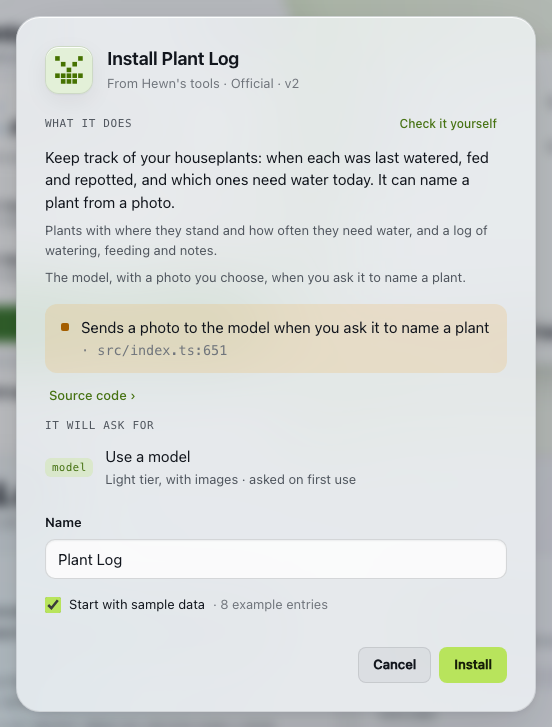
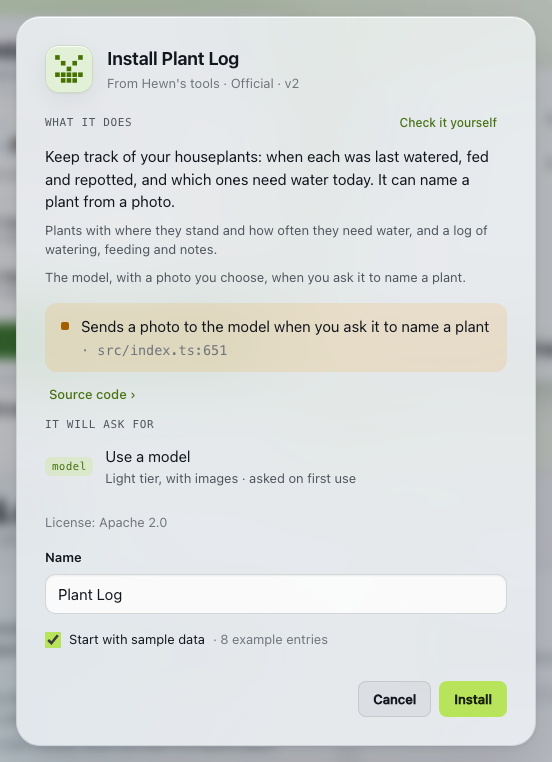
Review fixes: a tool's own LICENSE travels on, and the license row
- A LICENSE a tool came with is never dropped or replaced: under the
  same license it goes as it came; under another, the new text comes
  first and the original follows; all rights reserved adds nothing.
  The owner's name goes only on tools built on this Hewn.
- Hewn's own tools installed before their manifests said so start at
  Apache-2.0; a tool from elsewhere without one says so whatever is
  chosen.
- CC0 shows and writes its waiver; GPL-3.0-or-later carries its "or
  any later version" notice; a name is written as typed ($& and all).
- The name field follows typing in place and saves without a redraw,
  stacked under its label, and says it's for all your tools.
- The license pattern takes SPDX expressions with parentheses.
- spec/README.md at 2.7; package-lock's spec at 2.7.0; share.png and
  install.png retaken.
- Tests: ABI gate below 2.7, all rights reserved keeps the ABI, no new
  version or hash, the choice outlives a version, a manifest's other id
  with its own LICENSE, re-sharing someone else's work; the e2e checks
  the License row and the install sheet's line.

diff --git a/test/share-license.test.ts b/test/share-license.test.ts
@@ -6,10 +6,10 @@ import { tmpdir } from "node:os";
 import { join, resolve } from "node:path";
 import { after, afterEach, before, beforeEach, describe, test } from "node:test";
 import { USER } from "@hewntools/core/auth.ts";
-import { unpackBundle } from "@hewntools/core/bundle.ts";
-import { text } from "@hewntools/core/files.ts";
-import { LICENSE_CHOICES, licenseFile } from "@hewntools/core/licenses.ts";
-import { ABI_FEATURES } from "@hewntools/core/manifest.ts";
+import { packBundle, unpackBundle } from "@hewntools/core/bundle.ts";
+import { bytes, text } from "@hewntools/core/files.ts";
+import { KEPT_LICENSE, LICENSE_CHOICES, licenseFile } from "@hewntools/core/licenses.ts";
+import { ABI_FEATURES, validateManifest } from "@hewntools/core/manifest.ts";
 import { installFrom, SEED, setup } from "./helpers.ts";
 
 const SAMPLE = JSON.stringify([{ operation: "record_run", input: { distanceKm: 5.2, durationSeconds: 1700, date: "2026-10-01" } }]);
@@ -92,19 +92,92 @@ describe("a license on a shared tool", () => {
     assert.equal(t.platform.registry.getKv("share:license:running-log"), undefined);
   });
 
+  test("a choice is no new version: the active version and its hash stay, and the choice outlives a new version; all rights reserved keeps the tool's ABI", async () => {
+    const before = t.platform.registry.getCapability("running-log")!.activeVersion!;
+    const hash = t.platform.registry.getVersion("running-log", before)!.contentHash;
+    t.platform.setShareLicense(USER, "running-log", { license: "none" });
+    let bundle = (await t.platform.shareBundle(USER, "running-log")).bundle;
+    assert.equal(t.platform.registry.getCapability("running-log")!.activeVersion, before);
+    assert.equal(t.platform.registry.getVersion("running-log", before)!.contentHash, hash);
+    assert.equal(manifestOf(bundle).abi, "2.0", "no license, no ABI 2.7");
+    // A new version (its sample data again): the choice stays.
+    const b = await t.platform.settle((await t.platform.setSample(USER, "running-log", SAMPLE)).buildId);
+    assert.equal(b.status, "promoted", b.log.join("\n"));
+    assert.deepEqual(((x) => [x.id, x.why])((await t.platform.shareCheck(USER, "running-log")).license), ["none", "chosen"]);
+    bundle = (await t.platform.shareBundle(USER, "running-log")).bundle;
+    assert.equal(manifestOf(bundle).license, undefined);
+  });
+
+  test("someone else's work: the LICENSE it came with travels on, never replaced, and the owner's name never goes on it", async () => {
+    t.platform.setShareLicense(USER, "running-log", { license: "MIT" });
+    const mit = (await t.platform.shareBundle(USER, "running-log")).bundle;
+    const original = licenseOf(mit)!;
+    other = setup();
+    other.platform.setShareLicense(USER, (await (async () => {
+      const p = await other!.platform.stageBundle(USER, mit);
+      await other!.platform.settle((await other!.platform.installBundle(USER, p.token, { name: "Running Log", sample: true })).buildId);
+      return "running-log";
+    })()), { holder: "Ada Lovelace" });
+    const check = (await other.platform.shareCheck(USER, "running-log")).license;
+    assert.deepEqual([check.id, check.why, check.elsewhere, check.copyright], ["MIT", "manifest", true, `Copyright (c) ${year} the Running Log authors`], "not Ada's");
+    // Under the same license: as it came.
+    assert.equal(licenseOf((await other.platform.shareBundle(USER, "running-log")).bundle), original);
+    // Under another: the new one first, the original after it, as it was.
+    other.platform.setShareLicense(USER, "running-log", { license: "Apache-2.0" });
+    const apache = licenseOf((await other.platform.shareBundle(USER, "running-log")).bundle)!;
+    assert.match(apache, new RegExp(`^Copyright \\(c\\) ${year} the Running Log authors\n\n {33}Apache License\n`));
+    assert.ok(apache.endsWith(`${KEPT_LICENSE}\n\n${original}`));
+    assert.doesNotMatch(apache, /Ada/);
+    // All rights reserved writes nothing, and drops nothing: the notice it came with stays.
+    other.platform.setShareLicense(USER, "running-log", { license: "none" });
+    const none = (await other.platform.shareBundle(USER, "running-log")).bundle;
+    assert.equal(manifestOf(none).license, undefined);
+    assert.equal(licenseOf(none), original);
+  });
+
+  test("a manifest's other id is offered as it is, and its own LICENSE goes as it came", async () => {
+    t.platform.setShareLicense(USER, "running-log", { license: "MIT" });
+    const { files, sidecar } = unpackBundle((await t.platform.shareBundle(USER, "running-log")).bundle);
+    const m = JSON.parse(text(files["capability.json"]));
+    const theirs = "BSD 3-Clause License\n\nCopyright (c) 2025, Grace Hopper\n";
+    const bsd = packBundle({ ...files, "capability.json": bytes(JSON.stringify({ ...m, license: "BSD-3-Clause" }, null, 2)), LICENSE: bytes(theirs) }, sidecar);
+    other = setup();
+    const p = await other.platform.stageBundle(USER, bsd);
+    assert.equal(p.license, "BSD-3-Clause");
+    await other.platform.settle((await other.platform.installBundle(USER, p.token, { name: "Running Log", sample: true })).buildId);
+    const l = (await other.platform.shareCheck(USER, "running-log")).license;
+    assert.deepEqual([l.id, l.why], ["BSD-3-Clause", "manifest"]);
+    assert.ok(l.choices.some((c) => c.id === "BSD-3-Clause"));
+    const shared = (await other.platform.shareBundle(USER, "running-log")).bundle;
+    assert.equal(manifestOf(shared).license, "BSD-3-Clause");
+    assert.equal(licenseOf(shared), theirs);
+  });
+
+  test("one of Hewn's tools without a license in its manifest (installed before it said so) starts at Apache-2.0", async () => {
+    t.platform.setShareLicense(USER, "running-log", { license: "none" });
+    const bare = (await t.platform.shareBundle(USER, "running-log")).bundle;
+    other = setup();
+    const p = await other.platform.stageBundle(USER, bare, { from: "hub" });
+    await other.platform.settle((await other.platform.installBundle(USER, p.token, { name: "Running Log", sample: true })).buildId);
+    const l = (await other.platform.shareCheck(USER, "running-log")).license;
+    assert.deepEqual([l.id, l.why, l.elsewhere], ["Apache-2.0", "hewn", true]);
+  });
+
   test("a link serves the bundle under the license chosen for the tool", async () => {
     t.platform.setShareLicense(USER, "running-log", { license: "GPL-3.0-or-later" });
     const { token } = await t.platform.createShareLink(USER, "running-log", {});
     const { bundle } = await t.platform.sharedBundle(token);
     assert.equal(manifestOf(bundle).license, "GPL-3.0-or-later");
-    assert.match(licenseOf(bundle)!, /^Copyright \(c\) \d{4} the Running Log authors\n\n {20}GNU GENERAL PUBLIC LICENSE\n/);
+    assert.match(licenseOf(bundle)!, /^Copyright \(c\) \d{4} the Running Log authors\n\nThis program is free software: [^\n]*any later version\.\n\n {20}GNU GENERAL PUBLIC LICENSE\n/);
   });
 });
 
 describe("the license texts and the field", () => {
-  test("each of the four licenses has its text; CC0 its waiver; all rights reserved none", () => {
+  test("each of the four licenses has its text; CC0 its waiver; GPL its or-later notice; all rights reserved none", () => {
     const o = { year: 2026, toolName: "Plant Care" };
     assert.match(licenseFile("MIT", o)!, /Copyright \(c\) 2026 the Plant Care authors/);
+    assert.match(licenseFile("MIT", { ...o, holder: "A $& B" })!, /Copyright \(c\) 2026 A \$& B\n/, "a name is written as it is");
+    assert.match(licenseFile("GPL-3.0-or-later", o)!, /^Copyright \(c\) 2026 the Plant Care authors\n\nThis program is free software: .*either version 3 of the License, or \(at your option\) any later version\.\n\n {20}GNU GENERAL PUBLIC LICENSE/);
     assert.doesNotMatch(licenseFile("MIT", o)!, /\[year\]|\[fullname\]/);
     assert.match(licenseFile("CC0-1.0", o)!, /^To the extent possible under law, the Plant Care authors have waived all copyright and related or neighboring rights to Plant Care\.\n\nCreative Commons Legal Code/);
     assert.match(licenseFile("CC0-1.0", { ...o, holder: "Ada" })!, /^To the extent possible under law, Ada has waived/);
@@ -114,10 +187,14 @@ describe("the license texts and the field", () => {
     assert.equal(LICENSE_CHOICES.length, 5);
   });
 
-  test("a manifest's license needs ABI 2.7", () => {
+  test("a manifest's license needs ABI 2.7, and is an SPDX id or expression", () => {
     const f = ABI_FEATURES.find((x) => x.name === '"license"')!;
     assert.equal(f.since, "2.7");
     assert.ok(f.used({ license: "MIT" } as never));
+    const m = JSON.parse(readFileSync(join(resolve(import.meta.dirname, "fixtures/running-log"), "capability.json"), "utf8"));
+    assert.ok(validateManifest({ ...m, abi: "2.6", license: "MIT" }, m.id).some((e) => /"license".*2\.7/.test(e)), "refused below 2.7");
+    assert.deepEqual(validateManifest({ ...m, abi: "2.7", license: "(MIT AND BSD-2-Clause) OR GPL-3.0-or-later" }, m.id), []);
+    assert.ok(validateManifest({ ...m, abi: "2.7", license: "MIT; rm -rf" }, m.id).length > 0);
   });
 
   test("Hewn's own tools say Apache-2.0, as seeds/LICENSE does", () => {

diff --git a/packages/core/src/platform/sharing.ts b/packages/core/src/platform/sharing.ts
@@ -20,7 +20,7 @@ import { breather, Domain } from "./context.ts";
 import { type CodeFile, codeFiles, type CodeText, codeText } from "../code.ts";
 import { MODEL_KEYS } from "./models.ts";
 import { candidateFiles } from "./submissions.ts";
-import { copyrightLine, LICENSE_CHOICES, licenseFile, NO_LICENSE } from "../licenses.ts";
+import { KEPT_LICENSE, LICENSE_CHOICES, licenseFile, NO_LICENSE, noticeLine } from "../licenses.ts";
 
 /** A staged bundle (uploaded, not installed) is dropped after a day. */
 const STAGED_MS = 24 * 3600_000;
@@ -60,13 +60,20 @@ export interface ShareCheck {
 export interface ShareLicense {
   /** An SPDX id, or "none": all rights reserved (no `license`, no LICENSE file). */
   id: string;
-  why: "chosen" | "manifest" | "built-here" | "arrived-without";
+  why: "chosen" | "manifest" | "built-here" | "arrived-without" | "hewn";
   /** The five on the sheet, each with its line; a manifest's other id is offered as it is. */
   choices: { id: string; label: string; line: string }[];
-  /** The LICENSE file's copyright line, as it would be written. */
+  /** The LICENSE file's first line, as it would be written: the copyright line (CC0: its waiver). */
   copyright: string;
-  /** The name the owner gave for the copyright line, kept on this Hewn for every tool; null: "the <tool> authors". */
+  /** The name the owner gave for the copyright line, kept on this Hewn for all their tools; null: "the <tool> authors". */
   holder: string | null;
+  /**
+   * It came from elsewhere (a file, a link, Hewn's tools): someone else's work, so the owner's name never goes on it, and
+   * a LICENSE it came with travels on, never replaced.
+   */
+  elsewhere: boolean;
+  /** It came from elsewhere (not one of Hewn's tools) with no license: the row says so, whatever is chosen. */
+  arrivedWithout: boolean;
 }
 
 /** A card in Hewn's tools (Q2): enough to choose, and whether you have it. */
@@ -217,11 +224,15 @@ export class Sharing extends Domain {
     const m = this.registry.getVersion(capabilityId, version)!.manifest;
     const chosen = this.registry.getKv<string>(licenseKey(capabilityId));
     const own = m.license;
-    const id = chosen ?? own ?? (m.source ? NO_LICENSE : "MIT");
-    const why = chosen ? "chosen" : own ? "manifest" : m.source ? "arrived-without" : "built-here";
+    // Hewn's own tools are Apache-2.0 (seeds/LICENSE), also those installed before their manifests said so.
+    const hewn = m.source?.from === "hub";
+    const id = chosen ?? own ?? (hewn ? "Apache-2.0" : m.source ? NO_LICENSE : "MIT");
+    const why = chosen ? "chosen" : own ? "manifest" : hewn ? "hewn" : m.source ? "arrived-without" : "built-here";
     const holder = this.registry.getKv<string>(HOLDER_KEY) ?? null;
+    const elsewhere = !!m.source;
     const other = [own, chosen].find((x) => x && !LICENSE_CHOICES.some((c) => c.id === x));
-    return { id, why, choices: [...LICENSE_CHOICES, ...(other ? [{ id: other, label: other, line: "The license its manifest names." }] : [])], copyright: copyrightLine(new Date().getUTCFullYear(), m.name, holder ?? undefined), holder };
+    const copyright = noticeLine(id, { year: new Date().getUTCFullYear(), toolName: m.name, ...(holder && !elsewhere ? { holder } : {}) });
+    return { id, why, choices: [...LICENSE_CHOICES, ...(other ? [{ id: other, label: other, line: "The license its manifest names." }] : [])], copyright, holder, elsewhere, arrivedWithout: elsewhere && !hewn && !own };
   }
 
   /**
@@ -264,10 +275,11 @@ export class Sharing extends Domain {
     const { license: _, ...unlicensed } = JSON.parse(text(files["capability.json"])) as CapabilityManifest;
     const manifest: CapabilityManifest = license.id === NO_LICENSE ? unlicensed : { ...unlicensed, ...(abiBelow(abiOf(unlicensed), "2.7") ? { abi: "2.7" } : {}), license: license.id };
     files["capability.json"] = bytes(JSON.stringify(manifest, null, 2) + "\n");
-    const file = license.id === NO_LICENSE ? undefined : licenseFile(license.id, { year: new Date().getUTCFullYear(), toolName: manifest.name, holder: license.holder ?? undefined });
-    // A tool's own LICENSE stays only for a license Hewn has no text for.
-    if (license.id === NO_LICENSE) delete files.LICENSE;
-    else if (file) files.LICENSE = bytes(file);
+    // A LICENSE the version came with (from elsewhere) is someone's notice: it travels on, never dropped or replaced.
+    // Shared under the same license, it goes as it is; under another, the new one comes first and it follows, as it was.
+    const original = files.LICENSE ? text(files.LICENSE) : undefined;
+    const file = license.id === NO_LICENSE ? undefined : licenseFile(license.id, { year: new Date().getUTCFullYear(), toolName: manifest.name, ...(license.holder && !license.elsewhere ? { holder: license.holder } : {}) });
+    if (file && (!original || license.id !== row.manifest.license)) files.LICENSE = bytes(original ? `${file}\n\n${KEPT_LICENSE}\n\n${original}` : file);
     const sidecar: Sidecar = { format: BUNDLE_FORMAT, hewn: this.platform.version ?? "dev", abi: abiOf(manifest), exportedAt: new Date().toISOString(), tool: { id: capabilityId, version, hash: row.contentHash } };
     return { name: `${capabilityId}.hewn.zip`, bundle: packBundle(files, sidecar) };
   }

diff --git a/packages/core/src/licenses.ts b/packages/core/src/licenses.ts
@@ -14,23 +14,34 @@ export const LICENSE_CHOICES: { id: string; label: string; line: string }[] = [
   { id: NO_LICENSE, label: "All rights reserved", line: "No license: others may install it, but not change it or pass it on without asking you." },
 ];
 
-/** An SPDX id, or an expression of them (`MIT OR Apache-2.0`), as the manifest takes it. */
-export const LICENSE_ID = /^[A-Za-z0-9][A-Za-z0-9.+-]*( (AND|OR|WITH) [A-Za-z0-9][A-Za-z0-9.+-]*)*$/;
+/**
+ * The line a LICENSE file starts with: "Copyright (c) 2026 the Plant Care authors", or with the name the owner gave;
+ * for CC0, the waiver it asks for instead.
+ */
+export function noticeLine(id: string, o: { year: number; toolName: string; holder?: string }): string {
+  const who = o.holder?.trim() || `the ${o.toolName} authors`;
+  if (id === "CC0-1.0") return `To the extent possible under law, ${who} ${o.holder?.trim() ? "has" : "have"} waived all copyright and related or neighboring rights to ${o.toolName}.`;
+  return `Copyright (c) ${o.year} ${who}`;
+}
 
-/** "Copyright (c) 2026 the Plant Care authors", or with the name the owner gave. */
-export const copyrightLine = (year: number, toolName: string, holder?: string) => `Copyright (c) ${year} ${holder?.trim() || `the ${toolName} authors`}`;
+/** GPL's own notice for "or later", which the license text asks to be stated (its "How to Apply" section). */
+const GPL_LATER = "This program is free software: you can redistribute it and/or modify it under the terms of the GNU General Public License as published by the Free Software Foundation, either version 3 of the License, or (at your option) any later version.";
 
 /**
- * The LICENSE file for one of the four licenses Hewn ships, with its copyright line (CC0: the waiver it asks for).
- * Undefined for all rights reserved and for an id Hewn has no text for.
+ * The LICENSE file for one of the four licenses Hewn ships, starting with its notice line. Undefined for all rights
+ * reserved and for an id Hewn has no text for.
  */
 export function licenseFile(id: string, o: { year: number; toolName: string; holder?: string }): string | undefined {
-  const line = copyrightLine(o.year, o.toolName, o.holder);
-  if (id === "MIT") return TEXTS.MIT.replace("Copyright (c) [year] [fullname]", line);
-  if (id === "CC0-1.0") return `To the extent possible under law, ${o.holder?.trim() || `the ${o.toolName} authors`} ${o.holder?.trim() ? "has" : "have"} waived all copyright and related or neighboring rights to ${o.toolName}.\n\n${TEXTS["CC0-1.0"]}`;
+  const line = noticeLine(id, o);
+  // A function, so a name with "$&" in it is written as it is.
+  if (id === "MIT") return TEXTS.MIT.replace("Copyright (c) [year] [fullname]", () => line);
+  if (id === "GPL-3.0-or-later") return `${line}\n\n${GPL_LATER}\n\n${TEXTS[id]}`;
   const text = TEXTS[id as keyof typeof TEXTS];
   return text ? `${line}\n\n${text}` : undefined;
 }
+
+/** Where a LICENSE that came with the tool goes when it's shared under another license: under the new one, as it was. */
+export const KEPT_LICENSE = "It came with this license and notice, kept as they were:";
 
 const TEXTS = {
   MIT: "MIT License\n\nCopyright (c) [year] [fullname]\n\nPermission is hereby granted, free of charge, to any person obtaining a copy\nof this software and associated documentation files (the \"Software\"), to deal\nin the Software without restriction, including without limitation the rights\nto use, copy, modify, merge, publish, distribute, sublicense, and/or sell\ncopies of the Software, and to permit persons to whom the Software is\nfurnished to do so, subject to the following conditions:\n\nThe above copyright notice and this permission notice shall be included in all\ncopies or substantial portions of the Software.\n\nTHE SOFTWARE IS PROVIDED \"AS IS\", WITHOUT WARRANTY OF ANY KIND, EXPRESS OR\nIMPLIED, INCLUDING BUT NOT LIMITED TO THE WARRANTIES OF MERCHANTABILITY,\nFITNESS FOR A PARTICULAR PURPOSE AND NONINFRINGEMENT. IN NO EVENT SHALL THE\nAUTHORS OR COPYRIGHT HOLDERS BE LIABLE FOR ANY CLAIM, DAMAGES OR OTHER\nLIABILITY, WHETHER IN AN ACTION OF CONTRACT, TORT OR OTHERWISE, ARISING FROM,\nOUT OF OR IN CONNECTION WITH THE SOFTWARE OR THE USE OR OTHER DEALINGS IN THE\nSOFTWARE.\n",

diff --git a/packages/host-workerd/web/app/share.js b/packages/host-workerd/web/app/share.js
@@ -11,9 +11,9 @@ import { segmented } from "./widgets.js";
 
 export { licenseWords, samplePage, shareButton, shareIcon, shareSheet };
 
-/** A license as the sheets say it: its name, or "All rights reserved" (none). */
-const LICENSE_NAMES = { MIT: "MIT", "Apache-2.0": "Apache 2.0", "GPL-3.0-or-later": "GPL 3.0 or later", "CC0-1.0": "CC0 (public domain)", none: "All rights reserved" };
-const licenseWords = (id) => (id ? LICENSE_NAMES[id] ?? id : LICENSE_NAMES.none);
+/** A license as the sheets say it, as the share sheet's choices do: its name, or "All rights reserved" (none); another id as it is. */
+const LICENSE_NAMES = { MIT: "MIT", "Apache-2.0": "Apache 2.0", "GPL-3.0-or-later": "GPL 3.0 or later", "CC0-1.0": "CC0", none: "All rights reserved" };
+const licenseWords = (id) => (!id ? LICENSE_NAMES.none : Object.hasOwn(LICENSE_NAMES, id) ? LICENSE_NAMES[id] : id);
 
 /** The share mark everyone knows: a box with an arrow out of it. */
 const shareIcon = () =>
@@ -80,9 +80,17 @@ async function shareSheet(c, { version } = {}) {
         const l = check.license;
         const chosen = l.choices.find((x) => x.id === l.id) ?? { id: l.id, label: l.id, line: "" };
         const select = h("select", { class: "license-select", "aria-label": "License", onchange: (e) => setLicense({ license: e.target.value }) }, l.choices.map((x) => h("option", { value: x.id, selected: x.id === l.id }, x.label)));
-        const holder = h("input", { type: "text", class: "grow", value: l.holder ?? "", placeholder: `the ${check.name} authors`, maxLength: 80, "aria-label": "Copyright holder" });
-        holder.addEventListener("change", () => setLicense({ holder: holder.value }));
-        const why = l.why === "arrived-without" ? "It arrived without a license. " : "";
+        // The line follows the name as it's typed; saving it redraws nothing, so a click on Download right after still counts.
+        const notice = h("span", { class: "sub mono" }, l.copyright);
+        const holder = h("input", { type: "text", value: l.holder ?? "", placeholder: `the ${check.name} authors`, maxLength: 80, "aria-label": "Your name, for the copyright line of all your tools" });
+        holder.addEventListener("input", () => {
+          const who = holder.value.trim() || `the ${check.name} authors`;
+          notice.textContent = l.id === "CC0-1.0" ? `To the extent possible under law, ${who} ${holder.value.trim() ? "has" : "have"} waived all copyright and related or neighboring rights to ${check.name}.` : l.copyright.replace(/^(Copyright \(c\) \d+ ).*$/, (_, head) => head + who);
+        });
+        holder.addEventListener("change", () =>
+          api(`/capabilities/${enc(c.id)}/share/license`, { method: "PUT", body: { holder: holder.value } }).then((next) => (check = { ...check, license: next }), fail),
+        );
+        const why = l.arrivedWithout ? "It arrived without a license. " : "";
         return h(
           "div",
           {},
@@ -91,7 +99,18 @@ async function shareSheet(c, { version } = {}) {
             "ul",
             { class: "list" },
             h("li", {}, h("div", { class: "grow" }, h("span", {}, chosen.label), h("span", { class: "sub" }, `${why}${chosen.line}`)), select),
-            l.id !== "none" && h("li", {}, h("div", { class: "grow stack-xs" }, h("span", { class: "sub mono" }, l.copyright), h("label", { class: "row tight" }, h("span", { class: "small faint" }, "Your name, optional"), holder))),
+            l.id !== "none" &&
+              h(
+                "li",
+                {},
+                h(
+                  "div",
+                  { class: "grow stack-xs" },
+                  notice,
+                  // Someone else's work: never the owner's name, and the notice it came with travels on.
+                  l.elsewhere ? h("span", { class: "small faint" }, "Someone else's work: the notice it came with goes with it.") : h("label", { class: "field flush" }, h("span", { class: "label" }, "Your name, optional, for all your tools"), holder),
+                ),
+              ),
           ),
         );
       };

diff --git a/test/e2e/first-run.e2e.ts b/test/e2e/first-run.e2e.ts
@@ -212,6 +212,8 @@ try {
     await code.waitFor({ state: "detached" });
     await page.locator(".info-head").getByRole("button", { name: "Install", exact: true }).click();
     const sheet = page.locator("dialog[open]", { hasText: "Install Plant Log" });
+    // Hewn's own tools are Apache-2.0: the sheet says so.
+    await sheet.getByText("License: Apache 2.0").waitFor();
     await sheet.getByText(/From Hewn's tools · Official/).waitFor();
     await page.screenshot({ path: "/tmp/e2e-fr-hub-install.png" });
     await sheet.getByRole("button", { name: "Cancel" }).click();
@@ -662,6 +664,14 @@ export const operations = {
     await sheet.getByText(/sample\/calls\.json · \d+ calls? · /).waitFor();
     if ((await sheet.getByLabel("Version").inputValue()) !== "2") throw new Error("Info's Share… isn't on the live version");
     if (await sheet.getByRole("button", { name: "Download" }).isDisabled()) throw new Error("Download is off");
+    // From a file without a license: all rights reserved, and the row says why; picking MIT shows the copyright line, never the owner's name on it.
+    await sheet.getByText("It arrived without a license.", { exact: false }).waitFor();
+    if ((await sheet.getByLabel("License").inputValue()) !== "none") throw new Error("a tool from a file without a license isn't at all rights reserved");
+    await sheet.getByLabel("License").selectOption("MIT");
+    await sheet.getByText(/^Copyright \(c\) \d{4} the .+ authors$/).waitFor();
+    await sheet.getByText("Someone else's work: the notice it came with goes with it.").waitFor();
+    await sheet.getByLabel("License").selectOption("none");
+    await sheet.getByText("It arrived without a license.", { exact: false }).waitFor();
     await page.screenshot({ path: "/tmp/e2e-fr-share.png" });
     await sheet.getByRole("button", { name: "Done" }).click();
     await page.goto(`${web}/#/c/shared-log/v/1`);

diff --git a/spec/src/schemas.ts b/spec/src/schemas.ts
@@ -30,7 +30,8 @@ export const MANIFEST_SCHEMA: JSONSchema = {
     runtime: { enum: [...RUNTIME_PROFILES] },
     hue: { type: "integer", minimum: 0, maximum: 359 },
     saturation: { type: "integer", minimum: 0, maximum: 150 },
-    license: { type: "string", minLength: 1, maxLength: 200, pattern: "^[A-Za-z0-9][A-Za-z0-9.+-]*( (AND|OR|WITH) [A-Za-z0-9][A-Za-z0-9.+-]*)*$" },
+    // An SPDX id or expression ("MIT", "MIT OR Apache-2.0", "(MIT AND BSD-2-Clause) OR GPL-3.0-or-later", "LicenseRef-x").
+    license: { type: "string", minLength: 1, maxLength: 200, pattern: "^[A-Za-z0-9(][A-Za-z0-9.+() -]*$" },
     source: {
       type: "object",
       required: ["id", "version", "hash", "from"],

diff --git a/docs/sharing.md b/docs/sharing.md
@@ -25,7 +25,7 @@ Two things stop a share (a file and a link alike):
 
 From the terminal: `hewn share <id> [--version N] [--out file]` prints the same findings and writes the file unless something stops it.
 
-![Share Running Log: a version picker, what's in it (its sample data, always included), what's never in it, Download and Link, and one link that works for 7 more days with Revoke](images/share.png)
+![Share Running Log: a version picker, what's in it (its sample data, always included), what's never in it, its license (MIT, with the copyright line and a field for your name), Download and Link, and one link that works for 7 more days with Revoke](images/share.png)
 
 ## License
 
@@ -37,7 +37,9 @@ Share…'s **License** row says what others may do with your tool, one of five:
 - **CC0:** public domain: anyone may do anything with it, no credit needed.
 - **All rights reserved:** no license. Others may install it, but not change it or pass it on without asking you.
 
-A tool built on your Hewn starts at MIT. A tool that came from elsewhere starts at the license it came with, or at all rights reserved when it came without one (the row says so). You can always change it, and Hewn remembers your choice for that tool. Choosing one never makes a new version: Hewn writes it into the file when you download it or someone fetches a link, as the manifest's `license` and a `LICENSE` file with the license's text and a copyright line, "Copyright (c) 2026 the Running Log authors". Put your own name in the field under it if you'd rather; Hewn keeps it for all your tools. All rights reserved writes neither. A link serves the license you've chosen for the tool when it's fetched, and the install sheet shows the license a tool comes with. Hewn's own tools are Apache 2.0.
+A tool built on your Hewn starts at MIT, and one of Hewn's own tools at Apache 2.0. A tool that came from elsewhere starts at the license it came with, or at all rights reserved when it came without one (the row says so). You can always change it, and Hewn remembers your choice for that tool. Choosing one never makes a new version: Hewn writes it into the file when you download it or someone fetches a link, as the manifest's `license` and a `LICENSE` file with the license's text and a copyright line, "Copyright (c) 2026 the Running Log authors" (CC0's says the rights are waived instead). All rights reserved writes neither. A link serves the license you've chosen for the tool when it's fetched, and the install sheet shows the license a tool comes with.
+
+**Your name** in the field under it goes on the tools built on your Hewn, all of them, links already made included. A tool that came from elsewhere is someone else's work: your name never goes on it, and a `LICENSE` it came with travels on. Shared under the same license, it goes as it came; under another, the new license comes first and the one it came with follows, as it was; all rights reserved adds nothing and drops nothing it came with.
 
 ## Links
 
@@ -85,7 +87,7 @@ A file can't bring a reading of its own, from a link either: whatever it says ab
 
 **+ New** › **Or install** › **One of Hewn's tools** lists tools ready to install, Hewn's own (**Official**): Habits, Plant Log, Gift Ideas, Kid Quotes, Idea Tracker, Reading List, Running Log and Aurora Watch, shipped with Hewn (`seeds/` in the repo). A tool's page shows what it does and what it keeps (Hewn's reading of its code), its operations and its **Source code**; there's no file to download. **Install** opens the same sheet as for a file, with Hewn's reading already in it, so there's no wait; **Check it yourself** has your builder read it too. Info shows "from Hewn's tools · Official", and Activity "Installed from Hewn's tools". They're yours once installed, like any tool.
 
-![Install Plant Log, one of Hewn's tools: what it does, keeps and sends where, a warning that it sends a photo to the model when asked, Source code, what it will ask for, its name and Start with sample data](images/install.png)
+![Install Plant Log, one of Hewn's tools: what it does, keeps and sends where, a warning that it sends a photo to the model when asked, Source code, what it will ask for, its license (Apache 2.0), its name and Start with sample data](images/install.png)
 
 ## Start over
 

diff --git a/spec/README.md b/spec/README.md
@@ -31,7 +31,7 @@ export const operations = {
 The spec is versioned by the **ABI**, never by Hewn's releases. One version covers the whole contract: the manifest format, `ctx` and [grant](capability-model.md#grant) kinds. The agent tools ([`agents.md`](agents.md)) aren't part of it: a tool never sees them, and a host offers the list in the `@hewntools/spec` it ships with.
 
 - A tool declares the lowest ABI it needs in `capability.json` (`"abi": "2.2"`; none means 2.0). A host implements one major and runs every minor up to its own; it refuses a manifest that uses something newer than it declares.
-- **Minor versions only add.** So this document, at 2.6, describes all of 2.x: every addition is marked with the minor that introduced it ("since 2.2"), here, in the types, and in `src/abi.ts` (`ABI_HISTORY`, `CTX_MEMBERS`).
+- **Minor versions only add.** So this document, at 2.7, describes all of 2.x: every addition is marked with the minor that introduced it ("since 2.2"), here, in the types, and in `src/abi.ts` (`ABI_HISTORY`, `CTX_MEMBERS`).
 - **A new major** is a breaking change. When ABI 3 arrives, the 2.x spec is frozen in `v2/` and stays published as `@hewntools/spec@2.x`; the current major lives here.
 - `@hewntools/spec`'s version is the ABI: `2.5.x` describes ABI 2.5; the patch number is for fixes to the text, types or schemas that change nothing in the contract.
 
@@ -44,6 +44,7 @@ The spec is versioned by the **ABI**, never by Hewn's releases. One version cove
 | 2.4 | Manifest `saturation` |
 | 2.5 | Manifest `source` (where an installed tool came from; the host's to write), `requires.capabilities[]` `hub` and `minVersion`; `sample/calls.json` |
 | 2.6 | Manifest `config[].suggested` (the value a setting's field opens with; the owner confirms it) |
+| 2.7 | Manifest `license` (the SPDX id a shared tool carries, with a LICENSE file; the host's to write when the owner shares it) |
 
 2.0 replaced the pre-release 1.x, which no Hewn runs.
 
